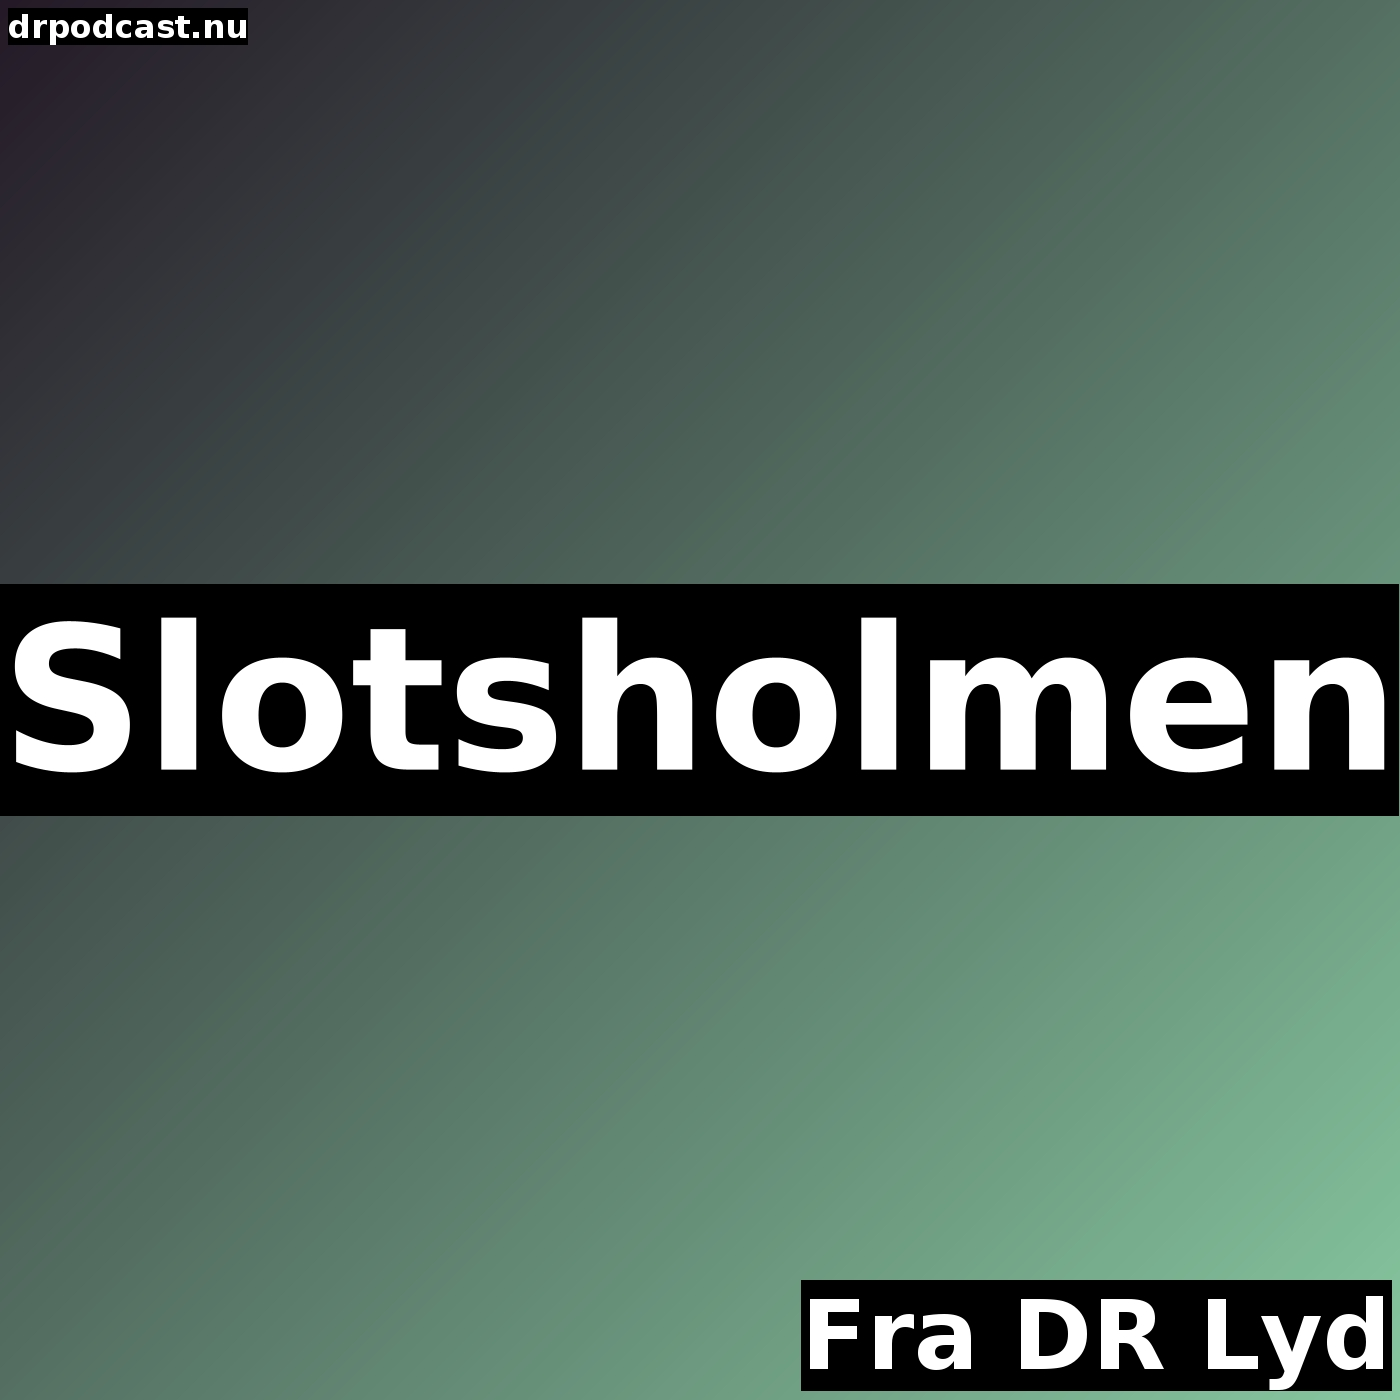
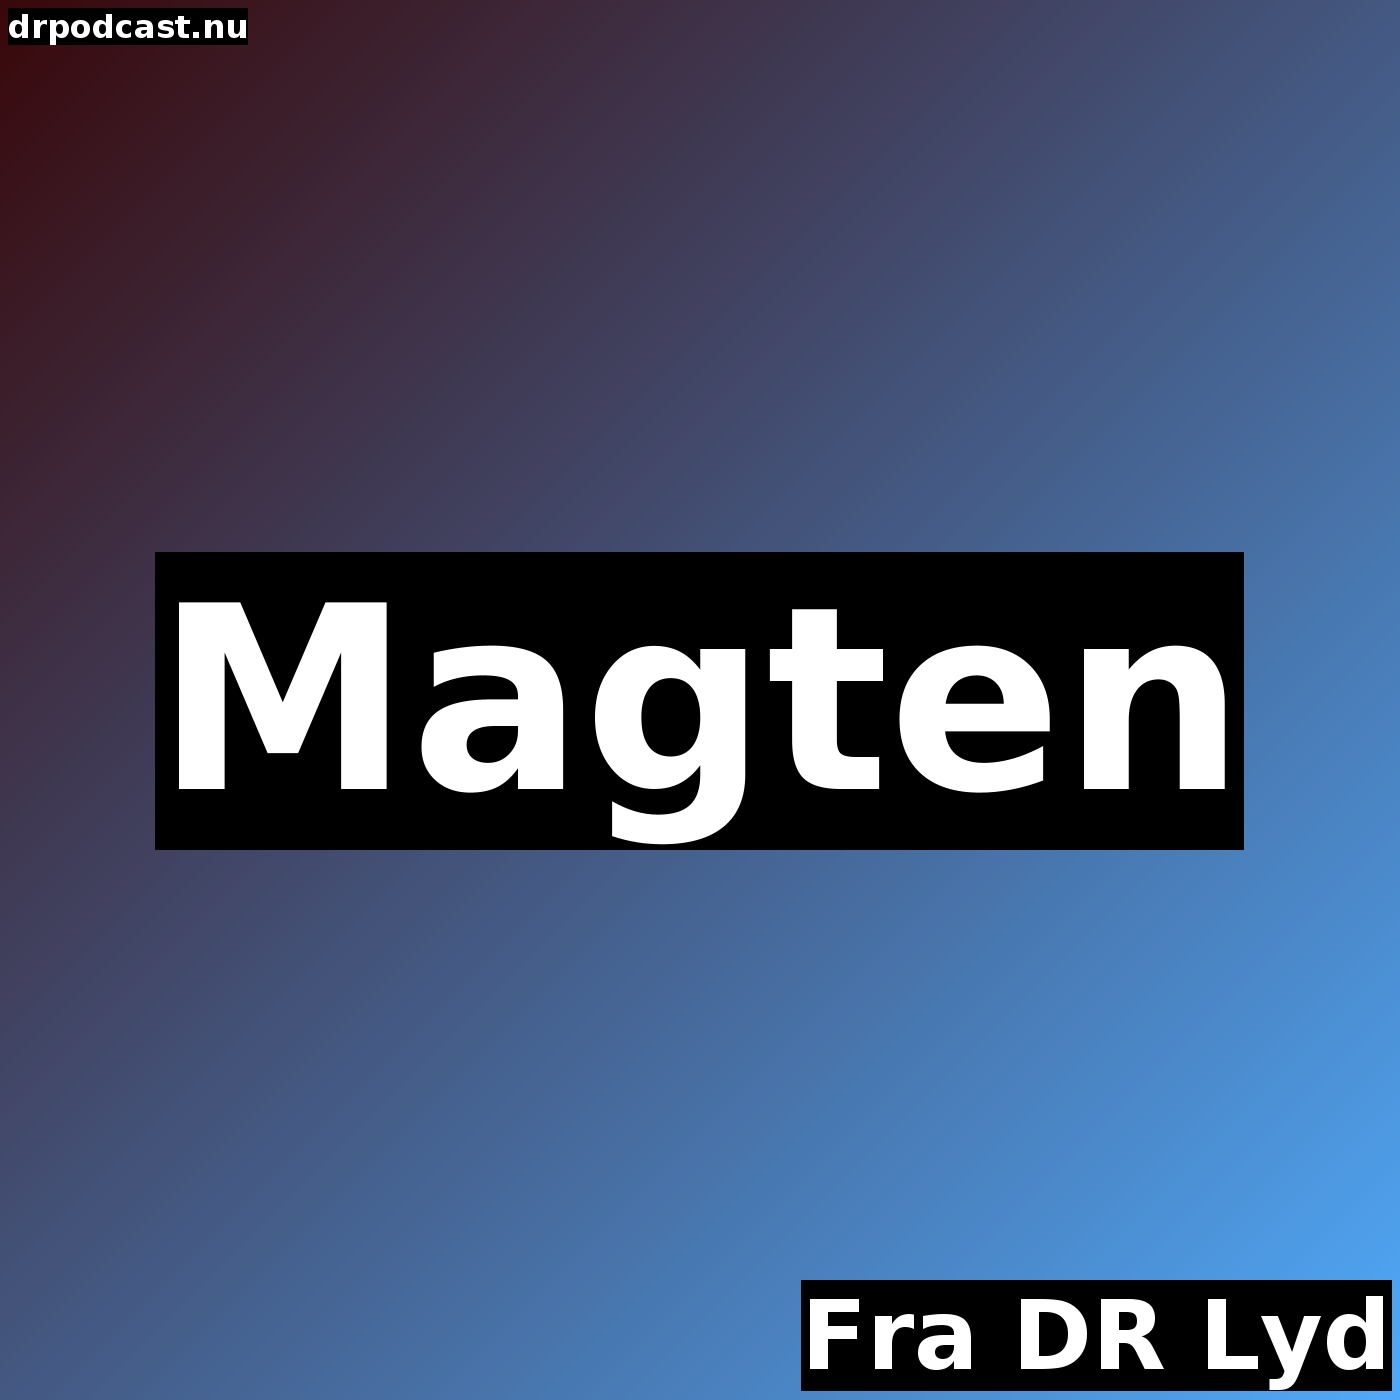
update

diff --git a/index.html b/index.html
@@ -3482,9 +3482,9 @@
             </a>
             <a href="slotsholmen/feed.xml">
                 <div>
-                    <img class="tile" src="slotsholmen/image.jpg" alt="Slotsholmen" />
+                    <img class="tile" src="slotsholmen/image.jpg" alt="Magten" />
                     <br>
-                    <strong>Slotsholmen</strong>
+                    <strong>Magten</strong>
                 </div>
             </a>
         </div>
